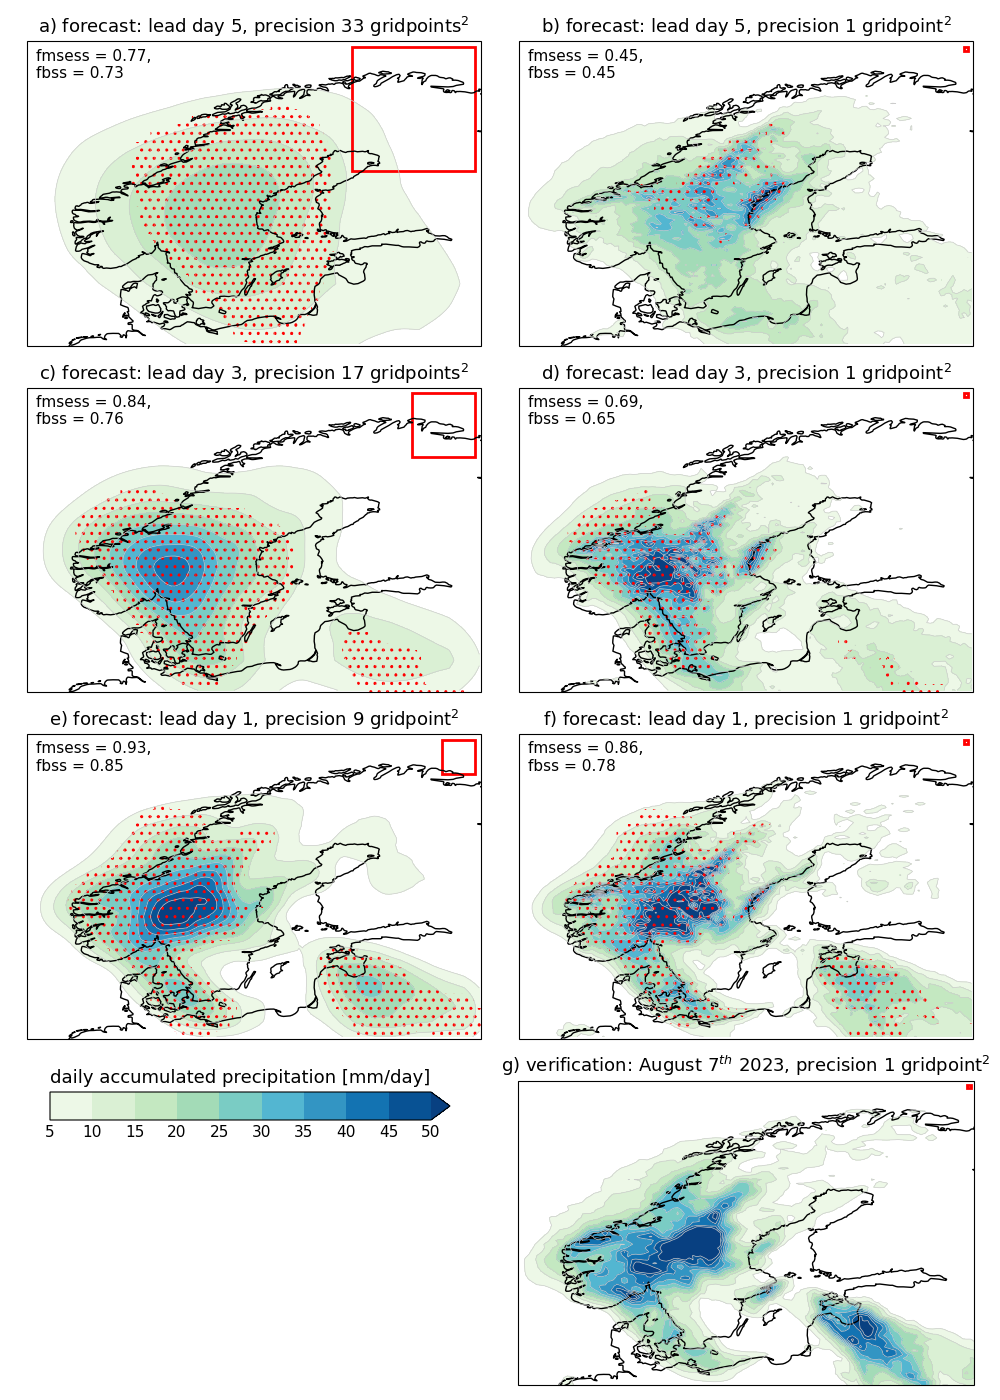
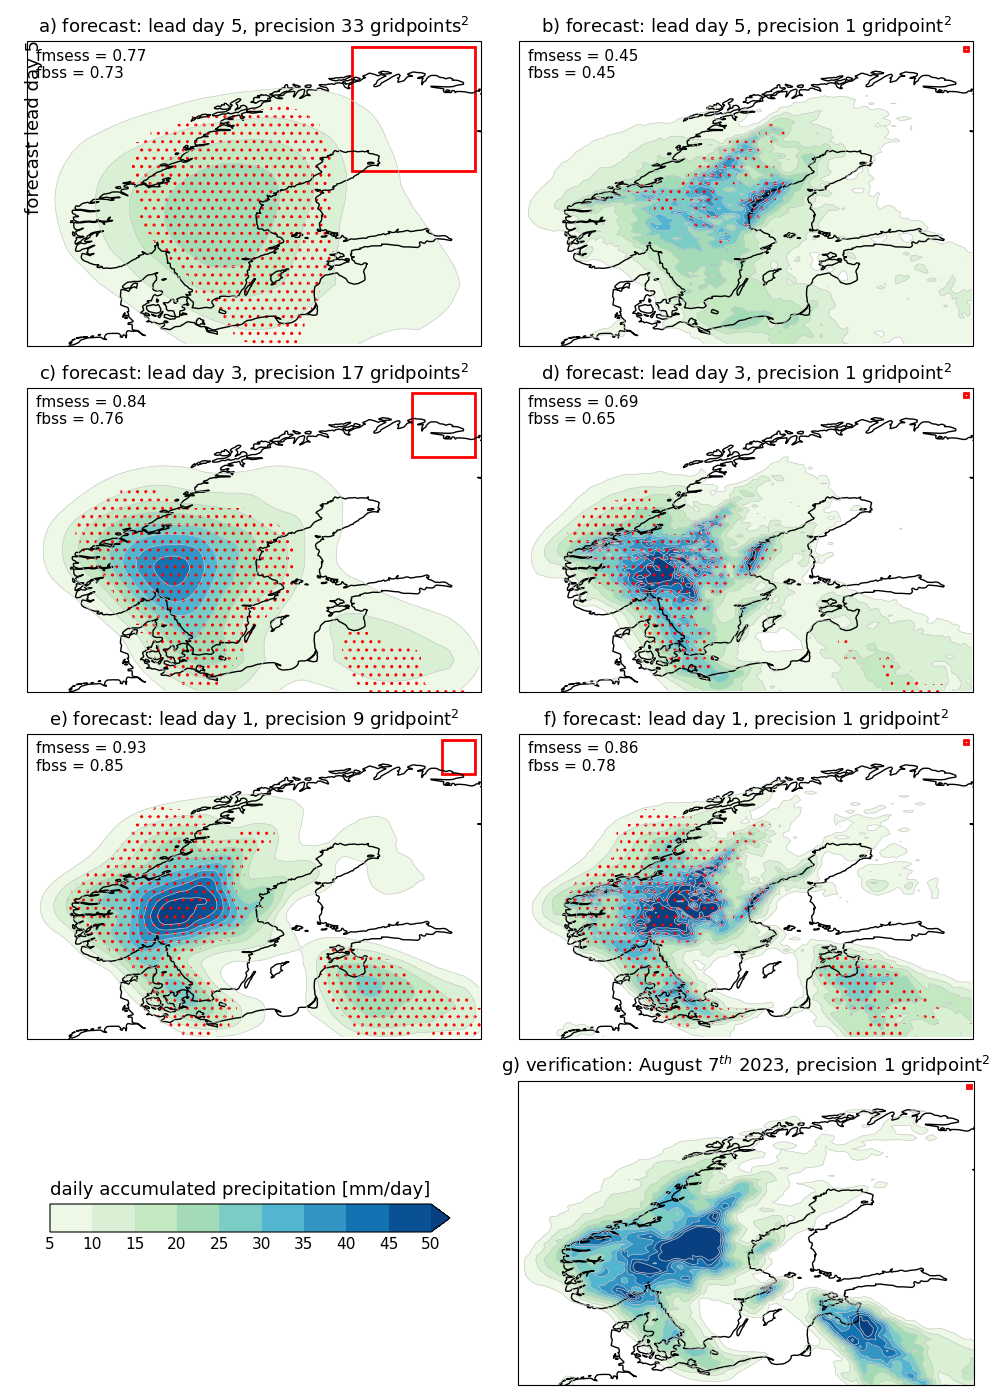
update

Changed region(s): [[0.062, 0.7679, 0.465, 0.8907], [0.031, 0.0307, 0.062, 0.1536]]

diff --git a/code/plot/plot-fig-05-new.py b/code/plot/plot-fig-05-new.py
@@ -106,12 +106,12 @@ title5 = r'e) forecast: lead day 1, precision 9 gridpoint$^2$'
 title6 = r'f) forecast: lead day 1, precision 1 gridpoint$^2$'
 title7 = r'g) verification: August 7$^{th}$ 2023, precision 1 gridpoint$^2$'
 
-stats1 = r'fmsess = ' + str(da1['fmsess'].values.round(2)) + ',\nfbss = ' + str(da1['fbss'].values.round(2))
-stats2 = r'fmsess = ' + str(da2['fmsess'].values.round(2)) + ',\nfbss = ' + str(da2['fbss'].values.round(2))
-stats3 = r'fmsess = ' + str(da3['fmsess'].values.round(2)) + ',\nfbss = ' + str(da3['fbss'].values.round(2))
-stats4 = r'fmsess = ' + str(da4['fmsess'].values.round(2)) + ',\nfbss = ' + str(da4['fbss'].values.round(2))
-stats5 = r'fmsess = ' + str(da5['fmsess'].values.round(2)) + ',\nfbss = ' + str(da5['fbss'].values.round(2))
-stats6 = r'fmsess = ' + str(da6['fmsess'].values.round(2)) + ',\nfbss = ' + str(da6['fbss'].values.round(2))
+stats1 = r'fmsess = ' + str(da1['fmsess'].values.round(2)) + '\nfbss = ' + str(da1['fbss'].values.round(2))
+stats2 = r'fmsess = ' + str(da2['fmsess'].values.round(2)) + '\nfbss = ' + str(da2['fbss'].values.round(2))
+stats3 = r'fmsess = ' + str(da3['fmsess'].values.round(2)) + '\nfbss = ' + str(da3['fbss'].values.round(2))
+stats4 = r'fmsess = ' + str(da4['fmsess'].values.round(2)) + '\nfbss = ' + str(da4['fbss'].values.round(2))
+stats5 = r'fmsess = ' + str(da5['fmsess'].values.round(2)) + '\nfbss = ' + str(da5['fbss'].values.round(2))
+stats6 = r'fmsess = ' + str(da6['fmsess'].values.round(2)) + '\nfbss = ' + str(da6['fbss'].values.round(2))
 stats7 = ''
 
 setup_subplot_xy(1, ax[0], da1['EFI'], da1[variable], clevs, cmap, fontsize, title1, stats1)
@@ -122,10 +122,12 @@ setup_subplot_xy(5, ax[4], da5['EFI'], da5[variable], clevs, cmap, fontsize, tit
 setup_subplot_xy(6, ax[5], da6['EFI'], da6[variable], clevs, cmap, fontsize, title6, stats6)
 p = setup_subplot_xy(7, ax[7], da7[variable], da7[variable], clevs, cmap, fontsize, title7, stats7)
 
-cbar_ax = fig.add_axes([0.05, 0.2, 0.4, 0.02])
+cbar_ax = fig.add_axes([0.05, 0.12, 0.4, 0.02])
 cb = fig.colorbar(p, cax=cbar_ax, orientation='horizontal',ticks=clevs, pad=0.025)
 cb.ax.tick_params(labelsize=fontsize, size=0)
 cb.ax.set_title('daily accumulated precipitation [mm/day]', fontsize=fontsize+2,y=1.01)
+
+fig.text(0.025,0.85,'forecast lead day 5',rotation=90,fontsize=fontsize+2)
 
 plt.tight_layout()
 if write2file: plt.savefig(path_out + figname_out)
